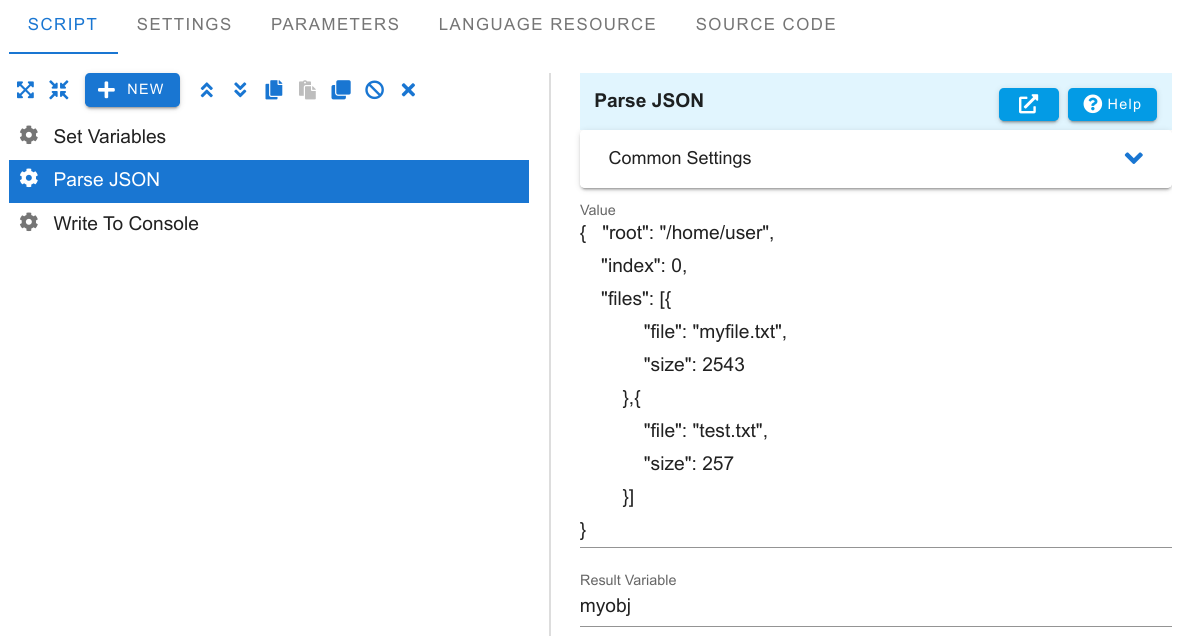
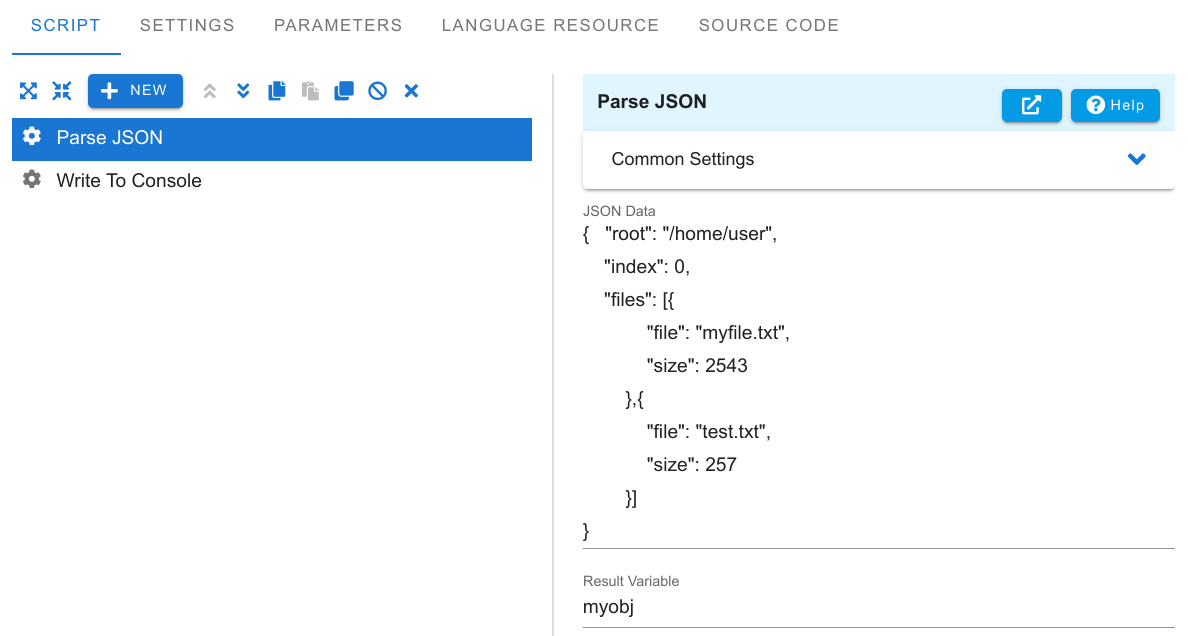
Added parse json script

diff --git a/ru/scripts/parse-json.md b/ru/scripts/parse-json.md
@@ -1,0 +1,39 @@
+---
+title: Записать JSON данные в переменную
+desc: Команда разбирает JSON данные и сохраняет их в переменную объект.
+---
+# Разобрать JSON
+
+Команда **Разобрать JSON** разбирает JSON данные и сохраняет их в переменную объект.
+
+%html.parse-json%
+
+**JSON данные**  
+Указажите JSON данные, которые необходимо разобрать. Если у вам нужно разобрать json файл, то укажите его имя в угловых скобках. Ниже приведены несколько вариантов определений данного параметра.
+
+``` json
+{
+    "name": "Alex",
+    "list": [
+        { "id": 123, "value": "test"},
+        { "id": 56, "value": "#value# #mark#"}
+    ]
+}
+```
+
+``` txt
+#jsonvar#
+```
+
+``` txt
+</home/user/data/settings.json>
+```
+
+**Результирующая переменная**  
+Укажите имя переменной, которой будет присвоен объект с JSON данными. Вы дальнейшем, вы можете использовать эту переменную в командах и функциях для работы с объектами. Также, можно непосредственно получать значения полей. Например, если вы указали имя переменной *jsonobj*, то для первого примера можно получить значения полей следующим образом:
+
+``` txt
+#jsonobj.name# => Alex
+#jsonobj.list[0].value# => test
+#jsonobj.list[1].id# => 56
+```

diff --git a/en/scripts/parse-json.md b/en/scripts/parse-json.md
@@ -1,0 +1,43 @@
+---
+title: Write JSON data into variable
+desc: The command parses the JSON data and stores it in an object variable.
+img:
+   parse-json: scripts/parse-json.png
+html:
+   parse-json: '<img src="%img.parse-json%" style="margin: 1em 1em;"/>'
+---
+# Parse JSON
+
+The **Parse JSON** command parses JSON data and stores it in an object variable.
+
+%html.parse-json%
+
+**JSON Data**  
+Specify JSON data to be parsed. If you need to parse the json file, specify its name in angle brackets. Below are a few options for the definition of this parameter.
+
+``` json
+{
+    "name": "Alex",
+    "list": [
+        {"id": 123, "value": "test"},
+        {"id": 56, "value": "#value# #mark#"}.
+    ]
+}
+```
+
+``` txt
+#jsonvar #
+```
+
+``` txt
+</home/user/data/settings.json>
+```
+
+**Result Variable**  
+Specify the name of the variable to which the object with JSON data will be assigned. You can use this variable in commands and functions to work with objects. You can also get field values directly. For example, if you specify the name of the variable *jsonobj*, you can get field values for the first example as follows:
+
+``` txt
+#jsonobj.name# => Alex
+#jsonobj.list[0].value# => test
+#jsonobj.list[1].id# => 56
+```

diff --git a/ru/scripts/encoding.md b/ru/scripts/encoding.md
@@ -1,0 +1,9 @@
+---
+title: Скрипты для работы с данными
+desc: Скрипты для работы с данными в разных форматах.
+---
+# Конвертация
+
+Здесь приведены функции работы с данными в разных форматах.
+
+%func.children%

diff --git a/en/scripts/encoding.md b/en/scripts/encoding.md
@@ -1,0 +1,9 @@
+---
+title: Scripts for working with data
+desc: Scripts for working with data in different formats.
+---
+# Encoding
+
+Here are the functions to work with data in different formats
+
+%func.children%
